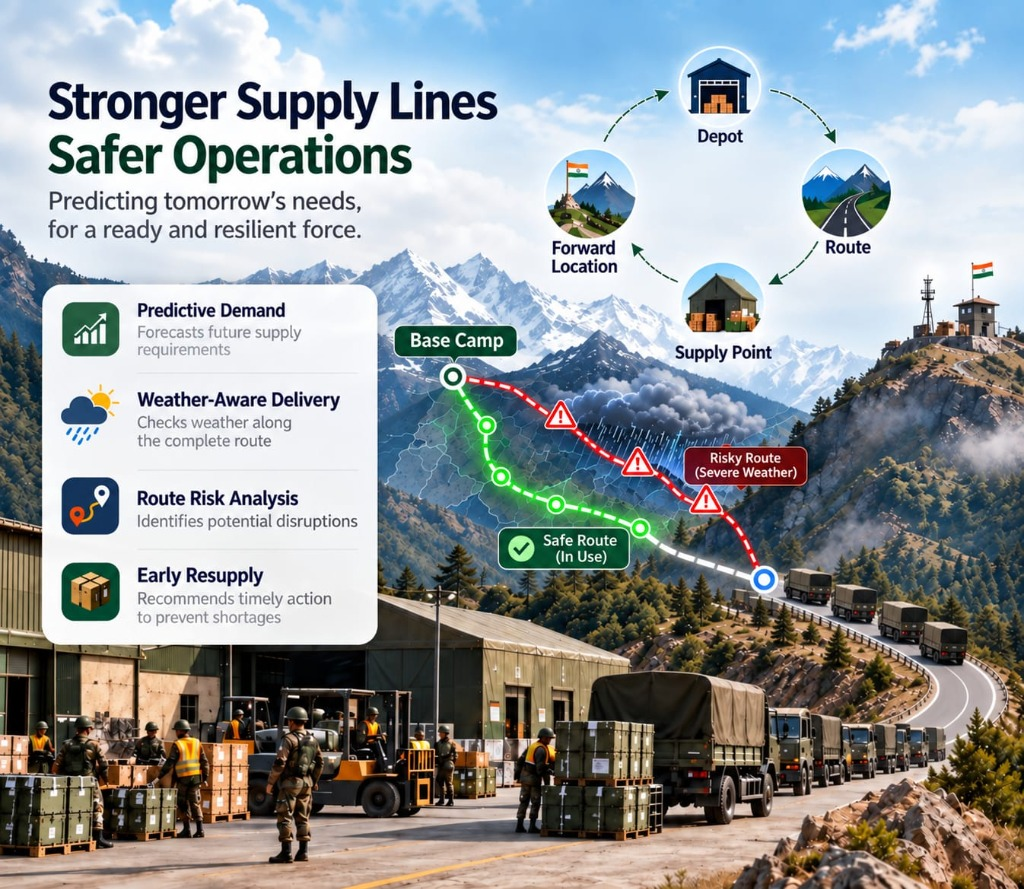
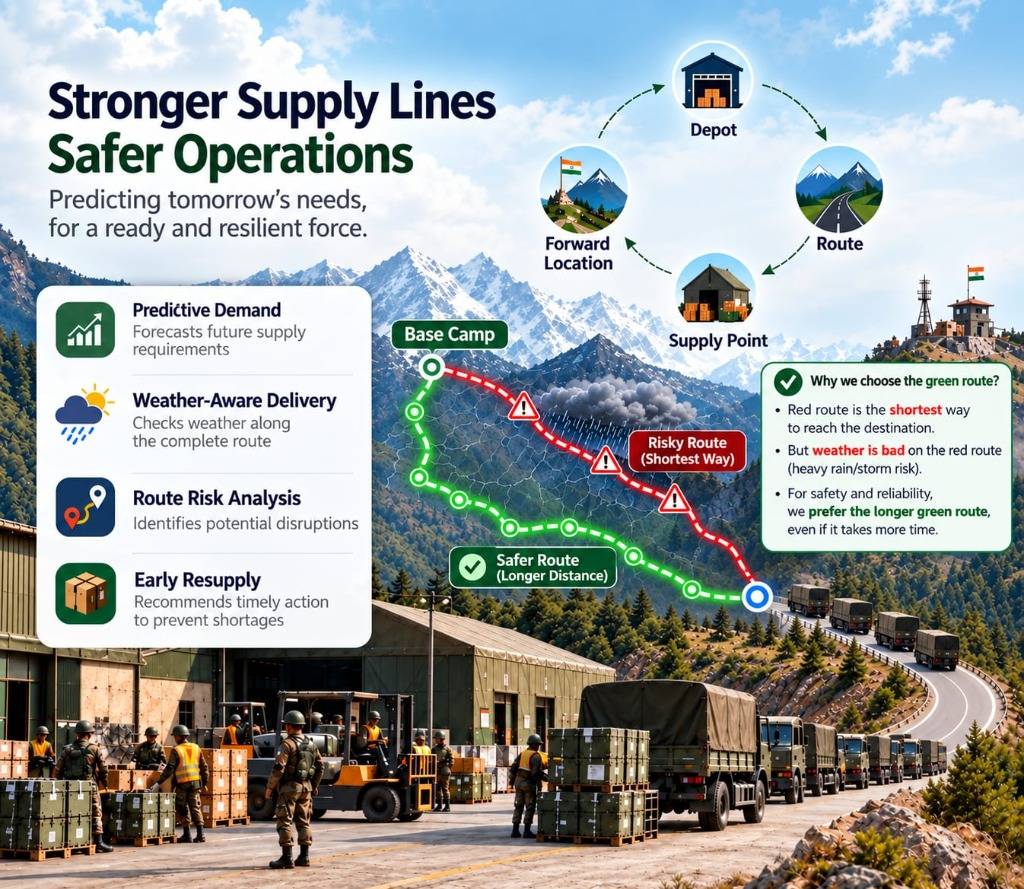
feat: update login hero image and fit edge-to-edge without cropping or black borders

diff --git a/client/src/pages/LoginPage.jsx b/client/src/pages/LoginPage.jsx
@@ -76,12 +76,12 @@ const LoginPage = () => {
   return (
     <div className="min-h-screen w-full bg-white flex flex-col lg:flex-row">
       
-      {/* ── LEFT HALF: Full Half-Page Hero Graphic (Edge-to-Edge) ── */}
-      <div className="w-full lg:w-1/2 min-h-[340px] sm:min-h-[440px] lg:min-h-screen relative overflow-hidden bg-slate-900 border-b lg:border-b-0 lg:border-r border-slate-200 flex items-stretch">
+      {/* ── LEFT HALF: Full Half-Page Hero Graphic (Edge-to-Edge Full Half Fit Without Cropping) ── */}
+      <div className="w-full lg:w-1/2 min-h-[380px] lg:min-h-screen relative overflow-hidden bg-white border-b lg:border-b-0 lg:border-r border-slate-200 flex items-stretch">
         <img 
           src="/login-hero.jpg" 
           alt="Stronger Supply Lines, Safer Operations" 
-          className="w-full h-full object-cover object-center select-none block"
+          className="w-full h-full object-fill select-none block"
         />
       </div>
 
